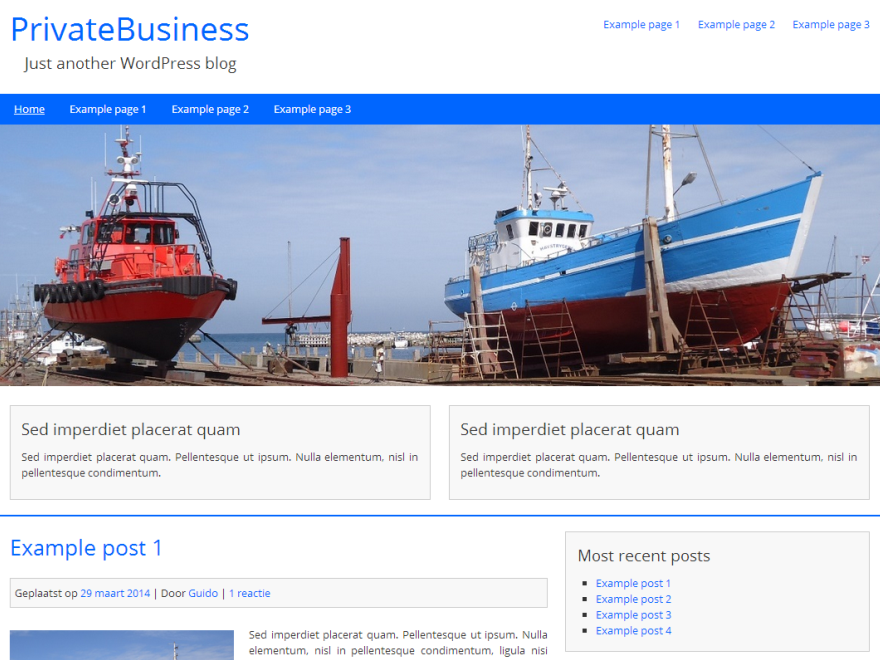
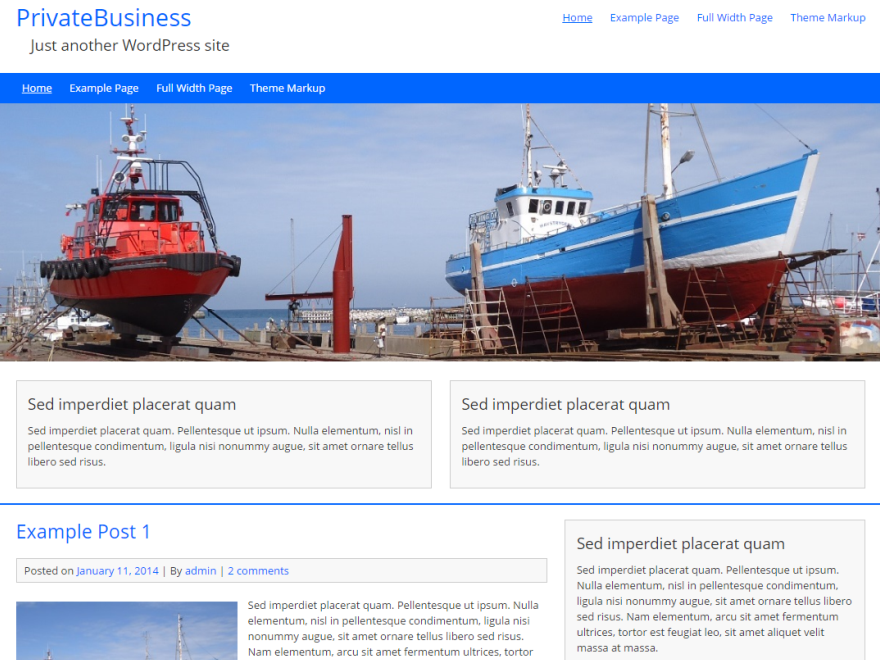
New version of PrivateBusiness - 5.4

diff --git a/style.css b/style.css
@@ -1,11 +1,11 @@
 /*
 Theme Name: PrivateBusiness
 Theme URI: http://www.guidovanderleest.nl/privatebusiness
-Version: 5.3
+Version: 5.4
 Author: Guido van der Leest
 Author URI: http://www.guidovanderleest.nl
 Description: PrivateBusiness is a free, clean, minimalistic, responsive, mobile-friendly WordPress theme. Features: sidebar, homepage widgets, footer widgets, custom header image, custom background, custom logo to replace site title and tagline, full width page template, dropdown navigation. For more info please check readme file. Enjoy.
-Tags: one-column, two-columns, right-sidebar, full-width-template, custom-background, custom-header, custom-menu, featured-images, footer-widgets, post-formats, sticky-post, blog, editor-style, translation-ready
+Tags: one-column, two-columns, right-sidebar, left-sidebar, full-width-template, custom-background, custom-header, custom-menu, featured-images, footer-widgets, post-formats, sticky-post, blog, editor-style, translation-ready
 License: GNU General Public License v3 or later
 License URI: http://www.gnu.org/licenses/gpl-3.0.html
 Text Domain: privatebusiness
@@ -74,6 +74,7 @@ body {background:#eee; font-family:'Open Sans', sans-serif; font-size:0.9em; col
 
 /* MAIN CONTENT AREA */
 #content {width:60%; float:left; padding:20px 0 20px 2%;}
+#content-right {width:60%; float:right; padding:20px 2% 20px 0;}
 #content-full {width:96%; float:left; padding:20px 2%;}
 
 
@@ -112,12 +113,13 @@ p {margin:0 0 10px;}
 
 /* TABLE AND LISTS */
 table {margin:10px 0; border-collapse:collapse;}
-table, th, td {border: 1px solid #ccc; padding:5px 10px;}
+table, th, td {border:1px solid #ccc; padding:5px 10px;}
 table th {font-weight:bold;}
 
-ul {list-style:square; margin:5px 0 5px 0;}
-ol {list-style:decimal; margin:5px 0 5px 0;}
+ul {list-style:square; margin:10px 0;}
+ol {list-style:decimal; margin:10px 0;}
 li {margin:0 0 0 20px;}
+li > ul, li > ol {margin:0;}
 dl {margin:10px 0;}
 dt {font-weight:bold;}
 dd {margin:0 0 0 20px;}
@@ -130,6 +132,7 @@ input[type="submit"]:hover, input[type="reset"]:hover, input[type="button"]:hove
 input[type="checkbox"] {-webkit-appearance:checkbox; -moz-appearance:checkbox;}
 input[type="radio"] {-webkit-appearance:radio; -moz-appearance:radio;}
 select {max-width:100%; -webkit-appearance:menulist; -moz-appearance:menulist;}
+button {font-size:1em; font-family:'Open Sans', sans-serif;}
 
 
 /* HEADER FIRST */
@@ -139,7 +142,7 @@ select {max-width:100%; -webkit-appearance:menulist; -moz-appearance:menulist;}
 /* HEADER FIRST LOGO */
 .logo {width:40%; float:left; text-align:left; padding:0 0 10px;}
 .logo h1 a:hover {text-decoration:none; color:#333;}
-.logo h2 {padding:5px 20px; font-size:1.45em;}
+.logo h2 {padding:5px 0 5px 20px; font-size:1.45em;}
 
 
 /* HEADER FIRST SECONDARY MENU */
@@ -187,10 +190,9 @@ select {max-width:100%; -webkit-appearance:menulist; -moz-appearance:menulist;}
 
 
 /* HOMEPAGE WIDGET AREA */
-#header-widgets {width:100%; clear:both; float:left; border-bottom:3px solid #0066ff;}
-
-.home-left {float:left; width:47%; margin:20px 0 0 2%; padding:0; word-wrap:break-word;}
-.home-right {float:right; width:47%; margin:20px 2% 0 0; padding:0; word-wrap:break-word;}
+#homepage-widgets {width:100%; clear:both; float:left; border-bottom:3px solid #0066ff;}
+.home-left {float:left; width:47%; margin:20px 0 0 2%; padding:0;}
+.home-right {float:right; width:47%; margin:20px 2% 0 0; padding:0;}
 
 
 /* PAGE */
@@ -237,6 +239,7 @@ img.alignleft {float:left; margin:0.4em 1em 0.4em 0;}
 img.aligncenter {display:block; margin:0.4em auto 0.4em auto;}
 
 .wp-post-image, .single-image {float:left; margin:0.4em 1em 0.4em 0;}
+.single-image-right {float:right; margin:0.4em 0 0.4em 1em;}
 
 .wp-caption {max-width:100%;}
 .wp-caption-text {text-align:center;}
@@ -278,6 +281,7 @@ img.aligncenter {display:block; margin:0.4em auto 0.4em auto;}
 
 /* SIDEBAR AND WIDGETS */
 #sidebar {width:34%; float:right; padding:20px 2% 0 0;}
+#sidebar-left {width:34%; float:left; padding:20px 0 0 2%;}
 .widget {padding:15px; margin:0 0 20px; background:#f8f8f8; border:1px solid #ccc;}
 .widgettitle {margin:0 0 10px;}
 
@@ -290,7 +294,6 @@ img.aligncenter {display:block; margin:0.4em auto 0.4em auto;}
 
 /* FOOTER WIDGET AREA */
 #footer-widgets {width:100%; clear:both; float:left; border-top:3px solid #0066ff;}
-
 .footer-left {float:left; width:47%; margin:20px 0 0 2%;}
 .footer-right {float:right; width:47%; margin:20px 2% 0 0;}
 
@@ -303,7 +306,7 @@ img.aligncenter {display:block; margin:0.4em auto 0.4em auto;}
 	#container {width:96%; padding:0 2%; margin:0 auto 0;}
 
 	/* MAIN CONTENT AREA */
-	#content, #content-full {width:100%; padding:10px 0 5px;}
+	#content, #content-right, #content-full {width:100%; float:left; padding:10px 0 5px;}
 
 	/* HEADER FIRST */
 	#header-first {width:100%; padding:0;}
@@ -327,7 +330,7 @@ img.aligncenter {display:block; margin:0.4em auto 0.4em auto;}
 	.nav-head-primary select {display:block; width:100%; height:35px; margin:0 auto 0; font-size:1em; line-height:1.2em; color:#fff; background:#0066ff; border:0;}
 
 	/* HOMEPAGE WIDGET AREA */
-	#header-widgets {border:0;}
+	#homepage-widgets {border:0;}
 	.home-right, .home-left {width:100%; margin:0; float:left;} 
 
 	/* HEADINGS */
@@ -338,10 +341,10 @@ img.aligncenter {display:block; margin:0.4em auto 0.4em auto;}
 	.format-status .avatar {margin:0.3em 0.5em 0.3em 0;}
 
 	/* IMAGES */
-	.wp-post-image, .single-image {width:50%; margin:0.3em 0.5em 0.3em 0;}
+	.wp-post-image, .single-image, .single-image-right {width:50%; float:left; margin:0.3em 0.5em 0.3em 0;}
 
 	/* SIDEBAR AND WIDGETS */
-	#sidebar {width:100%; padding:0; float:left;}
+	#sidebar, #sidebar-left {width:100%; padding:0; float:left;}
 	.widget {margin:15px 0; padding:10px;}
 
 	/* FOOTER WIDGET AREA */

diff --git a/custom-editor-style.css b/custom-editor-style.css
@@ -74,12 +74,13 @@ p {margin:0 0 10px;}
 
 /* TABLE AND LISTS */
 table {margin:10px 0; border-collapse:collapse;}
-table, th, td {border: 1px solid #ccc; padding:5px 10px;}
+table, th, td {border:1px solid #ccc; padding:5px 10px;}
 table th {font-weight:bold;}
 
-ul {list-style:square; margin:5px 0 5px 0;}
-ol {list-style:decimal; margin:5px 0 5px 0;}
+ul {list-style:square; margin:10px 0;}
+ol {list-style:decimal; margin:10px 0;}
 li {margin:0 0 0 20px;}
+li > ul, li > ol {margin:0;}
 dl {margin:10px 0;}
 dt {font-weight:bold;}
 dd {margin:0 0 0 20px;}

diff --git a/page-sidebar-left.php b/page-sidebar-left.php
@@ -1,0 +1,31 @@
+<?php
+/*
+ * Template Name: Left Sidebar Template
+ * Description: Template with left sidebar.
+ */
+?>
+
+<?php get_header(); ?>
+<div id="content-right">
+	<?php while ( have_posts() ) : the_post(); ?>
+
+		<h1 class="page-title"><?php the_title(); ?></h1>
+
+		<?php if ( has_post_thumbnail() ) { 
+			the_post_thumbnail('single', array('class' => 'single-image-right')); 
+		} ?>
+
+		<?php the_content(); ?>
+
+		<?php if ( $multipage ) { ?>
+			<div class="pagelink"><?php wp_link_pages(); ?></div>
+		<?php } ?> 
+
+		<?php comments_template(); ?>
+
+	<?php endwhile; ?>
+
+	<?php edit_post_link( __( 'Edit', 'privatebusiness' ), '<div class="edit-link">', '</div>' ); ?>
+</div>		
+<?php get_sidebar('left'); ?>
+<?php get_footer(); ?>

diff --git a/header.php b/header.php
@@ -1,6 +1,6 @@
 <?php
 /*
- * The header for displaying logo, menu, header-image and header-widgets.
+ * The header for displaying logo, menu, header-image and homepage-widgets.
  */
 ?>
 
@@ -48,7 +48,7 @@
 
 	<?php if( is_front_page() ) { ?>
 	<?php if ( is_active_sidebar( 'homepage-right' ) || is_active_sidebar( 'homepage-left' ) ) { ?>
-		<div id="header-widgets">
+		<div id="homepage-widgets">
 			<div class="home-right"> 
 				<?php dynamic_sidebar( 'homepage-right' ); ?>
 			</div>

diff --git a/sidebar-left.php b/sidebar-left.php
@@ -1,0 +1,11 @@
+<?php
+/*
+ * The left sidebar for displaying widgets.
+ */
+?>
+
+<?php if ( is_active_sidebar( 'primary' ) ) {?>
+	<div id="sidebar-left">
+		<?php dynamic_sidebar( 'primary' ); ?>
+	</div>
+<?php } ?>

diff --git a/index.php b/index.php
@@ -1,6 +1,6 @@
 <?php
 /*
- * The template for homepage.
+ * The template for main blog page.
  */
 ?>
 
